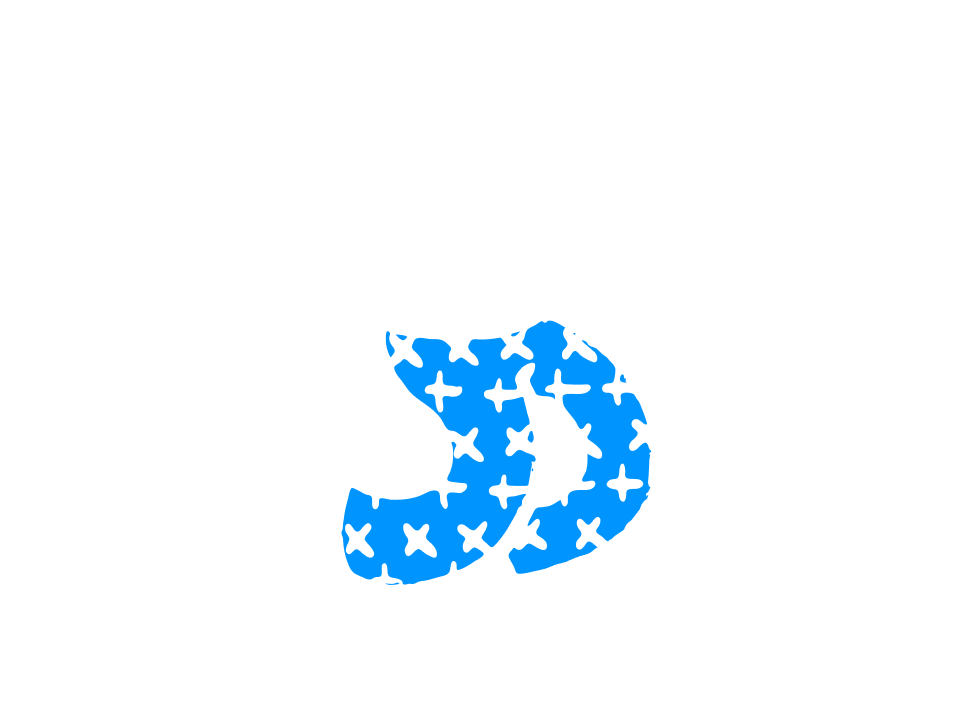
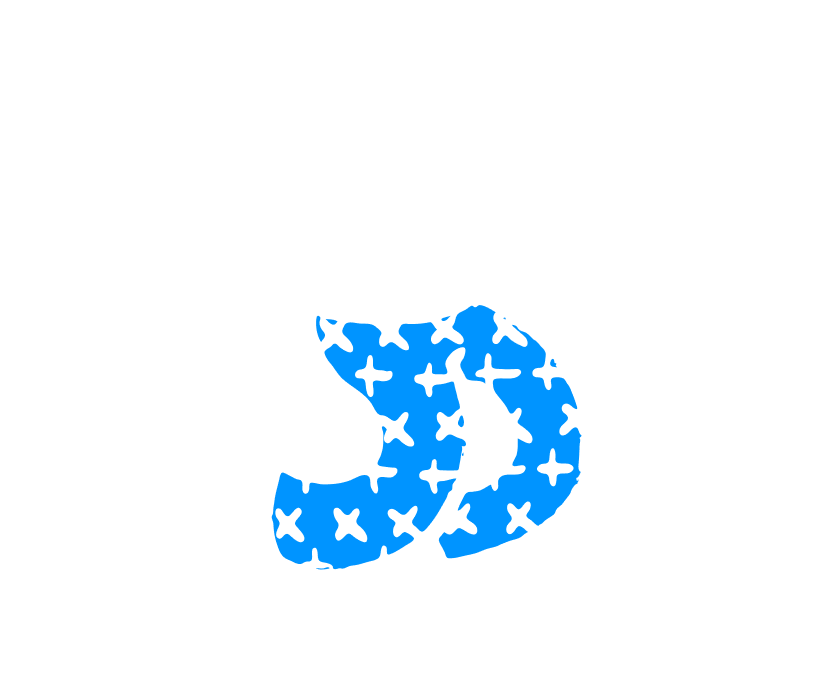
Improves sizing + hero sketch

Changed region(s): [[0.3345, 0.4292, 0.7299, 0.8277]]

diff --git a/styles/index.scss b/styles/index.scss
@@ -82,7 +82,7 @@ $secondary-font: Consolas,monaco,monospace;
                border: 1px solid $main-color;
                border-radius: 4px;
                text-align: center;
-               padding: 0.6em 0;
+               padding: .7em 0;
                font-weight: 700 !important;
                margin-top: 1.5em !important;
 
@@ -314,6 +314,11 @@ $secondary-font: Consolas,monaco,monospace;
       }
 
       .hero {
+   
+         h2, h2 > .text-highlight {
+            font-size: 1.3em;
+         }
+
          .hero-container {
             display: grid;
             grid-template-columns: auto 40%;
@@ -323,6 +328,10 @@ $secondary-font: Consolas,monaco,monospace;
    
                .hero-text {
                   margin-top: unset !important;
+               }
+
+               a {
+                  width: 50%;
                }
                
             }
@@ -369,7 +378,17 @@ $secondary-font: Consolas,monaco,monospace;
    }
 }
 
+@media only screen and (min-width: 900px) { 
+   h1 {
+      font-size: 4em !important;
+   }
+}
 
+@media only screen and (min-width: 1150px) { 
+   h1 {
+      font-size: 5em !important;
+   }
+}
 
 @media only screen and (min-width: 1600px) {
    * {

diff --git a/styles/index.css b/styles/index.css
@@ -76,7 +76,7 @@
   border: 1px solid #0094FF;
   border-radius: 4px;
   text-align: center;
-  padding: 0.6em 0;
+  padding: .7em 0;
   font-weight: 700 !important;
   margin-top: 1.5em !important;
 }
@@ -321,6 +321,9 @@
   * article {
     padding-top: 8em !important;
   }
+  * .hero h2, * .hero h2 > .text-highlight {
+    font-size: 1.3em;
+  }
   * .hero .hero-container {
     display: -ms-grid;
     display: grid;
@@ -332,6 +335,9 @@
   }
   * .hero .hero-container .content-container .hero-text {
     margin-top: unset !important;
+  }
+  * .hero .hero-container .content-container a {
+    width: 50%;
   }
   * .hero .hero-container .image-container {
     width: 100% !important;
@@ -359,6 +365,18 @@
   * .about-text .technologies ul li {
     float: left;
     margin-left: 2.5em;
+  }
+}
+
+@media only screen and (min-width: 900px) {
+  h1 {
+    font-size: 4em !important;
+  }
+}
+
+@media only screen and (min-width: 1150px) {
+  h1 {
+    font-size: 5em !important;
   }
 }
 

diff --git a/index.html b/index.html
@@ -29,7 +29,7 @@
             </div>
          </div>
          <div class="image-container">
-            <img src="resources/dancing-man.svg" alt="Dancing man says hi">
+            <img src="resources/dancing-man.png" alt="Dancing man says hi">
          </div>
       </div>
       <div class="socials">
